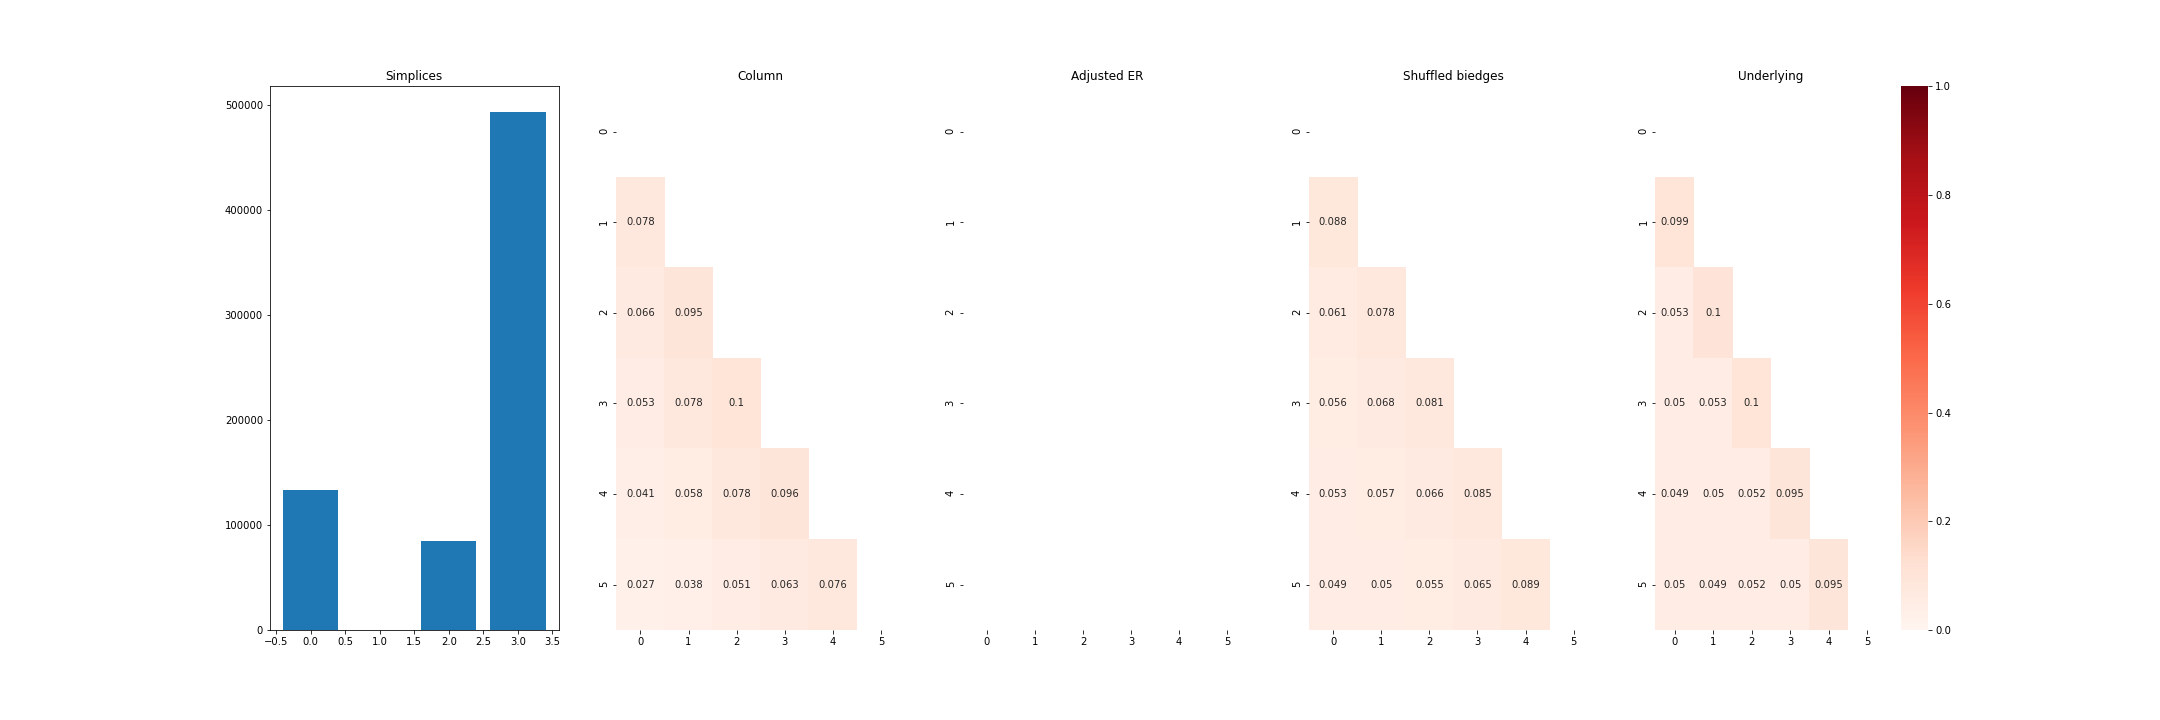
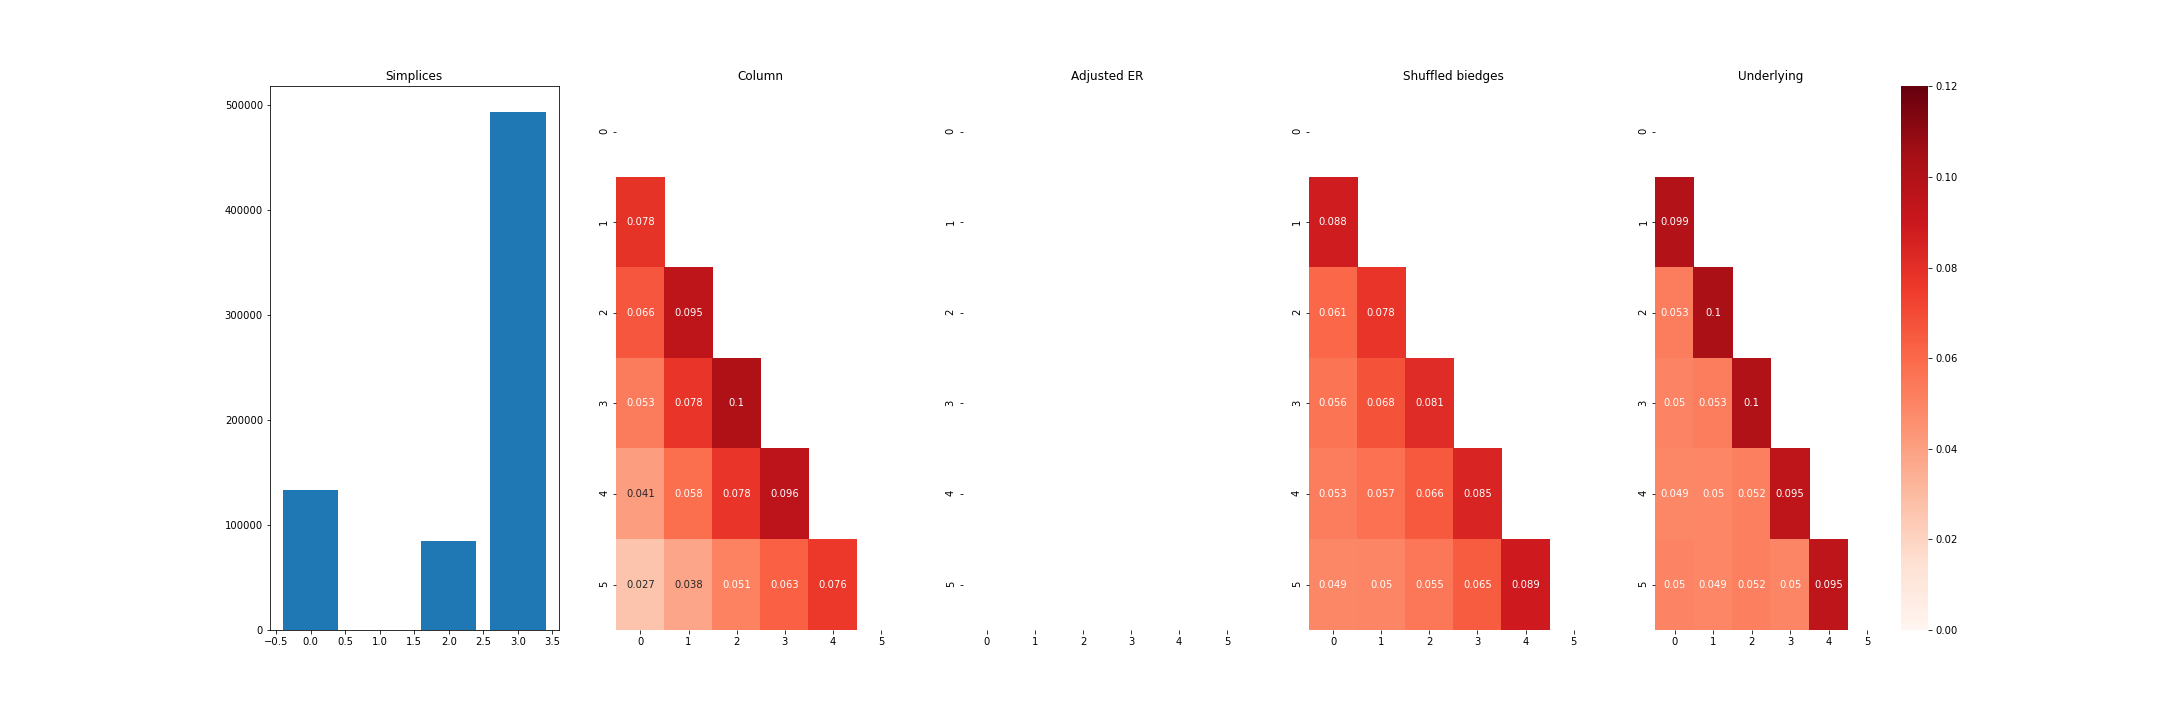
Re-done plots

Changed region(s): [[0.5894, 0.2444, 0.8685, 0.8861], [0.2792, 0.2444, 0.4032, 0.8861]]

diff --git a/robust_motifs/plot.py b/robust_motifs/plot.py
@@ -109,10 +109,10 @@ def compare_graphs_percent(dictionary_list, n_instances, name,
             hmap[hmap == 0] = np.nan
             if np.sum(np.tril(matrix)):
                 sns.heatmap(hmap / np.sum(np.tril(matrix)) / n_instances, ax=ax, annot=True, cmap='Reds',
-                            cbar=(ax == axs[-1]), vmin=0, vmax=1)
+                            cbar=(ax == axs[-1]), vmin=0, vmax=0.12)
             else:
                 sns.heatmap(hmap / n_instances, ax=ax, annot=True, cmap='Reds',
-                            cbar=(ax == axs[-1]), vmin=0, vmax=1)
+                            cbar=(ax == axs[-1]), vmin=0, vmax=0.12)
 
         for title, ax in zip(title_list, axs):
             ax.set_title(title)
